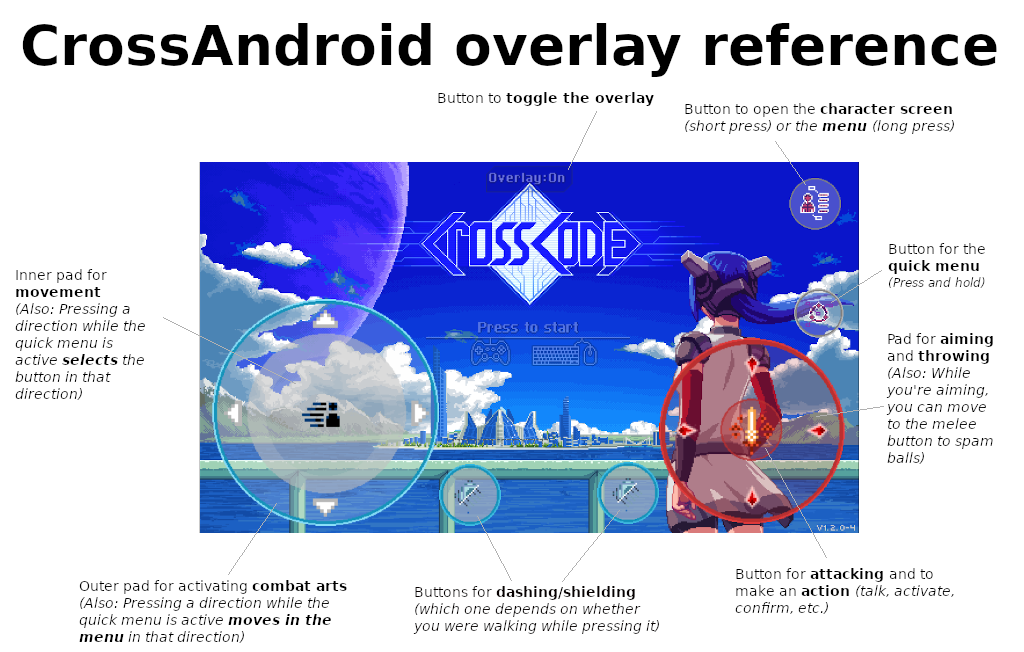
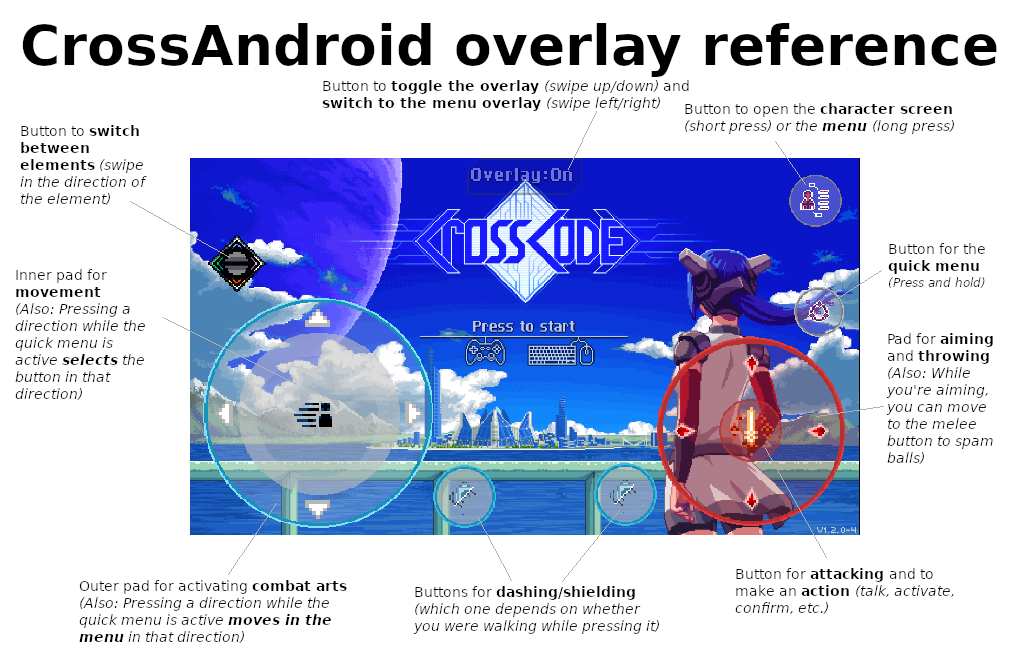
Update README with updated reference, features, and an import/export tutorial

Changed region(s): [[0.1562, 0.2454, 0.8438, 0.8282], [0.3125, 0.1227, 0.6875, 0.184], [0.0, 0.184, 0.1562, 0.3067]]

diff --git a/README.md b/README.md
@@ -2,6 +2,16 @@
 Welcome to CrossAndroid! This is an app that allows you to play
 CrossCode on your Android device.
 
+Current features:
+- Play CrossCode on the go!
+- Support for controllers connected to your phone
+- Includes a virtual controller layout _(for details see below)_
+- Customize the virtual controller with size and transparency settings
+  (you can even let it disable itself automatically during cutscenes)
+- Haptic feedback when the screen shakes _(experimental)_
+- Import/Export saves between your PC and this app! _(for details, see
+  below)_
+
 The whole project is still experimental, which is why there is no
 "release" yet. But you can already try it out, use most of the games'
 functionality and help improve the app by reporting bugs or making
@@ -25,8 +35,43 @@ Here's an overview of the combat controls overlay:
 
 ![Control scheme reference](crossandroid_overlay_reference.png)
 
-This layout, like anything in this app, is not locked down yet, so if
-you have a suggestion to improve it, please share it!
+**Important:** Do not change the controller binding settings in the
+in-game options when you want to use the virtual controller! Doing so
+will result in the virtual controller behaving in some weird and
+unexpected ways.
+
+Turning off the overlay will let you interact directly with the game
+(click on buttons, etc.)
+
+You can adjust the size and transparency of the virtual controller in
+the settings of the app.
+
+# Import/Export of saves
+CrossAndroid handles import/export of saves with a feature called _Save
+Strings_. The way this works is you can retrieve and import a "Save
+String" (piece of unreadable text that contains your save data) of the
+latest save. You then need to manually copy that Save String into your
+other game installation, and the new save pops up at the bottom of your
+saves list.
+
+### Exporting a Save String from CrossAndroid
+To export a Save String, open the app settings and toggle on "Show
+Exported Save String". On the next game start, the app will now show you
+a dialog that lets you copy the Save String from your latest save. You
+can turn the option off again when you have retrieved your Save String.
+
+### Importing a Save String into CrossAndroid
+To import a Save String, go into the app settings and tap "Import Save
+String". A dialog will appear where you can enter a previously retrieved
+Save String. Paste your Save String here _(only one at a time!)_. When
+you launch the game the next time, the Save String will be imported into
+the game and added on the bottom of your saves list.
+
+### Exporting/Importing a Save String from/into CrossCode on your PC
+The procedure on a PC is very similar to the one with CrossAndroid. Open
+the game, and press `F10` in the title screen/menu. A window will pop up
+that lets you both copy the latest Save String and paste a Save String
+to import into the game.
 
 ## Feedback
 Speaking of suggestions: If you have any, suggest them either
